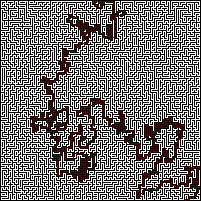
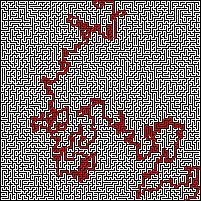
GUI

Changed region(s): [[0.1493, 0.0, 0.9254, 0.9254], [0.6567, 0.806, 1.0, 0.9851], [0.8955, 0.9851, 0.9552, 1.0]]

diff --git a/src/Solver.java b/src/Solver.java
@@ -4,6 +4,8 @@ import java.awt.image.BufferedImage;
 import java.io.IOException;
 import java.util.ArrayList;
 
+import static java.lang.Thread.sleep;
+
 /**
  * Swingworker that solves the maze in the background
  */
@@ -15,22 +17,23 @@ public class Solver extends SwingWorker<Maze, Maze> {
     private boolean found;
     private ArrayList<int[]> path;
     IOSystem ioSystem;
+    MazePanel mazePanel;
 
     /**
      * Constructor
      * @param maze the maze to solve
      * @param ioSystem the input output system, used to print the maze when solved
      */
-    public Solver(Maze maze, IOSystem ioSystem) {
+    public Solver(Maze maze, IOSystem ioSystem, MazePanel mp) {
         this.maze = maze;
         this.exit = maze.getExit();
         this.path = new ArrayList<>();
         this.ioSystem = ioSystem;
+        this.mazePanel = mp;
     }
 
     @Override
-    protected Maze doInBackground() throws Exception {
-        System.out.println("doInBackground");
+    protected Maze doInBackground() {
         int[] start = maze.getStart();
         int x = start[0];
         int y = start[1];
@@ -44,12 +47,7 @@ public class Solver extends SwingWorker<Maze, Maze> {
         super.done();
         if (found) {
             BufferedImage img = maze.getImage();
-            int red = 255;
-            int color = (new Color(red, 0, 0)).getRGB();
-            for (int[] c: path) {
-                img.setRGB(c[0], c[1], color);
-                System.out.println(c[0] + ", " + c[1]);
-            }
+            mazePanel.repaint();
             try {
                 ioSystem.writeImage(maze);
             } catch (IOException e) {
@@ -71,7 +69,6 @@ public class Solver extends SwingWorker<Maze, Maze> {
 
         // Check left
         if (isValid(x-1, y)) {
-            System.out.println("Trying left");
             setNewStatus(x-1, y, 2);
             if (findNext(x-1, y)) {
                 return true;
@@ -81,7 +78,6 @@ public class Solver extends SwingWorker<Maze, Maze> {
 
         // Check right
         if (isValid(x+1, y)) {
-            System.out.println("Trying right");
             setNewStatus(x+1, y, 2);
             if (findNext(x+1, y)) {
                 return true;
@@ -91,7 +87,6 @@ public class Solver extends SwingWorker<Maze, Maze> {
 
         // Check down
         if (isValid(x, y-1)) {
-            System.out.println("Trying down");
             setNewStatus(x, y-1, 2);
             if (findNext(x, y-1)) {
                 return true;
@@ -101,7 +96,6 @@ public class Solver extends SwingWorker<Maze, Maze> {
 
         // Check up
         if (isValid(x, y+1)) {
-            System.out.println("Trying up");
             setNewStatus(x, y+1, 2);
             if (findNext(x, y+1)) {
                 return true;
@@ -130,12 +124,11 @@ public class Solver extends SwingWorker<Maze, Maze> {
      */
     private void setNewStatus(int x, int y, int s) {
         maze.setNewStatus(x, y, s);
+        mazePanel.repaint();
         if ( s==2 ) {
             path.add( new int[]{x, y} );
-            System.out.println("Added: (" + x + ", " + y + "), " + s);
         } else if ( s==3 ) {
             path.remove( path.size() - 1 );
-            System.out.println("Removed: (" + x + ", " + y + "), " + s);
         }
     }
 

diff --git a/src/MazeSolver.java b/src/MazeSolver.java
@@ -1,4 +1,5 @@
 import javax.swing.*;
+import java.awt.*;
 import java.io.IOException;
 
 /**
@@ -15,22 +16,29 @@ public class MazeSolver {
     Maze maze;
     Solver solver;
     IOSystem ioSystem;
+    JFrame frame;
+    MazePanel mp;
 
     /**
      * Main method
      * @param fileName the filename of the maze
      */
     private void run(String fileName) {
-        JFrame frame = new JFrame("Maze Solver");
-        frame.setDefaultCloseOperation(JFrame.EXIT_ON_CLOSE);
-        frame.setVisible(true);
+                frame = new JFrame("Maze Solver");
+                frame.setPreferredSize(new Dimension(400, 300));
+                frame.setDefaultCloseOperation(JFrame.EXIT_ON_CLOSE);
+                frame.pack();
+                mp = new MazePanel(null);
+                frame.add(mp);
+                frame.setVisible(true);
 
         try {
             ioSystem = new IOSystem();
             maze = ioSystem.readImage(fileName);
-            solver = new Solver(maze, ioSystem);
+            mp.updateImage(maze.getImage());
+            mp.repaint();
+            solver = new Solver(maze, ioSystem, mp);
             solver.execute();
-            System.out.println("Started execution");
         }
         catch(IOException e) {
             System.out.println("Error: " + e);
@@ -38,8 +46,12 @@ public class MazeSolver {
     }
 
 
+
+
+
+
     public static void main(String[] args) {
-        String fileName = "braid200.png";
+        String fileName = "braid2k.png";
 
         MazeSolver mazeSolver = new MazeSolver();
         mazeSolver.run(fileName);

diff --git a/src/MazePanel.java b/src/MazePanel.java
@@ -1,0 +1,35 @@
+import javax.swing.*;
+import java.awt.*;
+import java.awt.image.BufferedImage;
+
+public class MazePanel extends JPanel {
+
+    private BufferedImage image;
+
+    public MazePanel(BufferedImage img) {
+        image = img;
+    }
+
+    @Override
+    protected void paintComponent(Graphics g) {
+        super.paintComponent(g);
+        if (image != null) {
+            double ratioWidth = (double)getWidth() / image.getWidth();
+            double ratioHeight = (double)getHeight() / image.getHeight();
+            double ratio = ratioWidth;
+            if (ratioHeight < ratioWidth) { // Make sure the whole maze is onscreen
+                ratio = ratioHeight;
+            }
+            g.drawImage(image, 0, 0,
+                    (int)Math.floor(image.getWidth() * ratio), (int)Math.floor(image.getHeight() * ratio),
+                    this);
+        }
+    }
+
+
+
+    public void updateImage(BufferedImage img) {
+        image = img;
+    }
+
+}

diff --git a/src/Maze.java b/src/Maze.java
@@ -133,6 +133,15 @@ public class Maze {
      */
     public void setNewStatus(int x, int y, int s) {
         mazeMatrix[x][y] = s;
+        int color;
+        if (s == 2) {
+            color = Color.RED.getRGB();
+            mazeImage.setRGB(x, y, color);
+        } else if (s == 3) {
+            color = Color.WHITE.getRGB();
+            mazeImage.setRGB(x, y, color);
+        }
+
     }
 
     /**

diff --git a/src/MainFrame.java b/src/MainFrame.java
@@ -1,0 +1,14 @@
+import javax.swing.*;
+
+public class MainFrame {
+
+    public MainFrame() {
+        JFrame f = new JFrame("Maze Solver");
+        f.setVisible(true);
+        f.add(new MazePanel(null));
+    }
+
+    private void updateUI() {
+
+    }
+}
